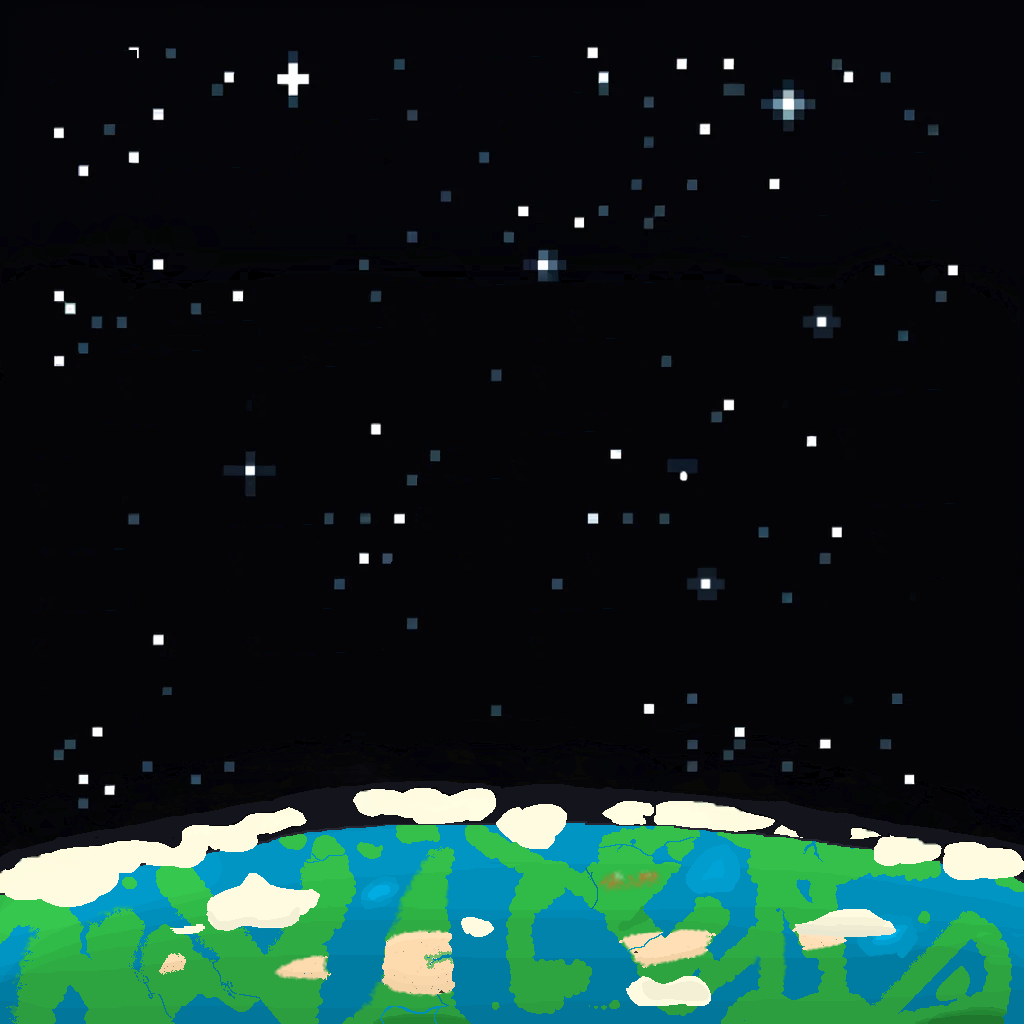
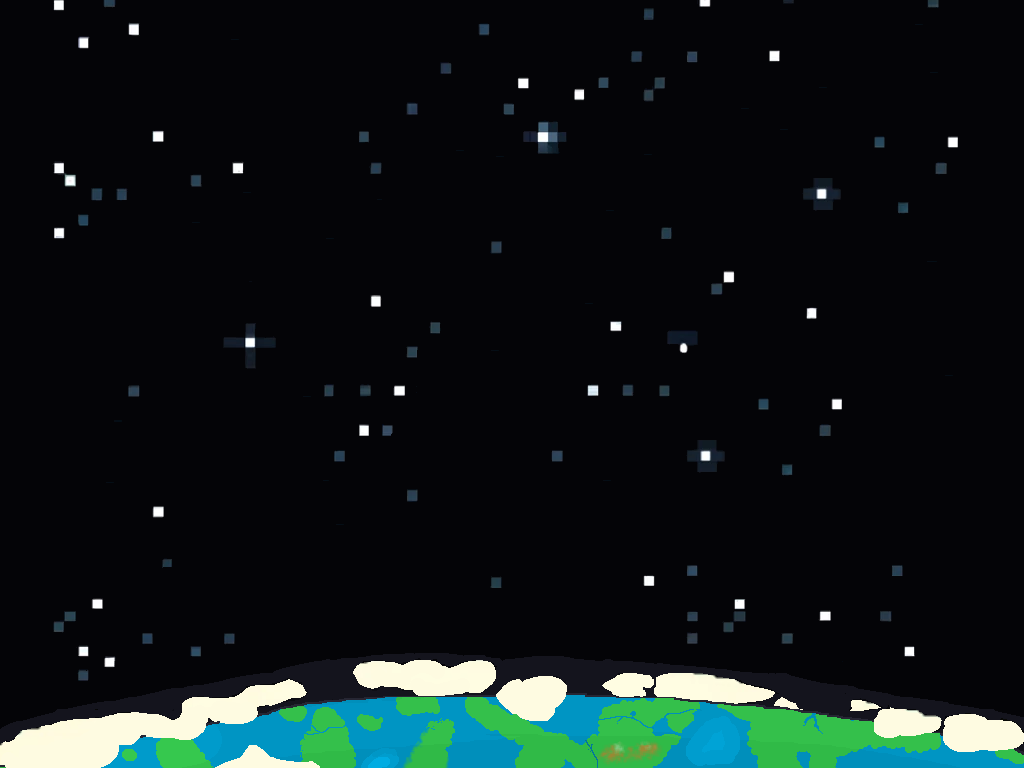
Char scrolling, smooth transitions, smoothed out some backgrounds

diff --git a/src/utils/dialogue_manager.js b/src/utils/dialogue_manager.js
@@ -28,7 +28,7 @@ class DialogueManager extends Phaser.GameObjects.Container {
 
     delay_timer = 0.5;
 
-    constructor(scene, x = 320, y = 40) {
+    constructor(scene, x = 310, y = 30) {
         super(scene, x, y);
         scene.add.existing(this);
         scene.events.on('update', this.update, this);
@@ -98,29 +98,40 @@ class DialogueManager extends Phaser.GameObjects.Container {
     }
 
     loadNextLine() {
-        this.line = this.lines[this.line_index];
-        this.char_index = 0; // Prepare to show new line
-        this.text.setText(this.line); // Display the entire line immediately
+        if (this.line_index < this.lines.length) {
+            this.line = this.lines[this.line_index];
+            this.char_index = 0;
+            this.isLineComplete = false;
+            this.text.setText("");
+            this.typeNextChar();
+        } else {
+            // Dialogue is complete
+            this.emitter.emit('dialogue_complete');
+            this.deactivateDialogue();
+        }
+    }
+
+    typeNextChar() {
+        if (this.char_index < this.line.length) {
+            this.text.text += this.line.charAt(this.char_index);
+            this.char_index++;
+            this.scene.time.delayedCall(DialogueManager.text_delay, this.typeNextChar, [], this);
+        } else {
+            this.isLineComplete = true; // The line is now fully displayed.
+        }
     }
 
     advanceDialogue() {
-        if (!this.is_active) return;
-        console.error(`Advance Dialogue call`);
-
-        // Advance character index or line index based on current state
-        if (this.char_index < this.line.length - 1) {
-            // If not at the end of the current line, immediately display the full line
-            this.char_index = this.line.length - 1;
-            this.text.setText(this.line);
-        } else {
-            // If at the end, move to the next line
-            if (this.line_index < this.lines.length - 1) {
+        if (this.is_active) {
+            if (!this.isLineComplete) {
+                // If the line is not fully displayed, immediately display it all
+                this.char_index = this.line.length;
+                this.text.setText(this.line);
+                this.isLineComplete = true;
+            } else {
+                // If the line is complete, move to the next one
                 this.line_index++;
                 this.loadNextLine();
-            } else {
-                // If no more lines, complete the dialogue
-                this.emitter.emit('dialogue_complete');
-                this.deactivateDialogue();
             }
         }
     }

diff --git a/src/scenes/Dialogue.js b/src/scenes/Dialogue.js
@@ -16,6 +16,7 @@ class Dialogue extends Phaser.Scene {
         this.background = this.add.image(0, 0, 'Dialogue').setOrigin(0, 0);
         this.background.setDisplaySize(this.cameras.main.width, this.cameras.main.height); // Adjust the size to fit the screen
         this.background.setDepth(-1);
+        this.cameras.main.fadeIn(1000, 0, 0, 0);
 
         this.keys = InitKeyDefs(this);
         this.dialogue_mgr = new DialogueManager(this);
@@ -34,12 +35,14 @@ class Dialogue extends Phaser.Scene {
     }
 
     transitionToGame() {
-        // Stop the Dialogue scene
-        this.scene.stop('Dialogue');
+        // Start fade-out effect over 1000 milliseconds
+        this.cameras.main.fadeOut(1000, 0, 0, 0);
 
-        // Transition to the Game scene or previous scene as needed
-        // Adjust this logic according to your game's needs
-        this.scene.start('Game');
+        // Set up a callback for when the fade-out is complete
+        this.cameras.main.once(Phaser.Cameras.Scene2D.Events.FADE_OUT_COMPLETE, (camera) => {
+            // Transition to the Game scene
+            this.scene.start('Game');
+        });
     }
 }
 

diff --git a/src/scenes/Preloader.js b/src/scenes/Preloader.js
@@ -44,15 +44,13 @@ export class Preloader extends Scene {
 
         this.load.image("BG4", "backgrounds/BG4.png");
 
-        this.load.image("BG5", "backgrounds/leveloneTilemap.png");
+        this.load.image("BG5", "backgrounds/BG5.png");
 
         this.load.image("BG6", "backgrounds/BG6.png");
 
         this.load.image("BG7", "backgrounds/BG7.png");
 
         this.load.image("Dialogue", "backgrounds/Dialouge.png");
-
-        this.load.image("upgradeTilemap", "backgrounds/leveloneTilemap.png");
 
         this.load.image("losescreen", "backgrounds/losescreen.png");
 

diff --git a/src/scenes/Store.js b/src/scenes/Store.js
@@ -222,7 +222,7 @@ export class Store extends Scene {
     create() {
         this.player_vars = this.registry.get('player_vars')
         //Background
-        this.animatedBg = this.add.tileSprite(400, 300, 1500, 1000, 'upgradeTilemap')
+        this.animatedBg = this.add.tileSprite(400, 300, 1500, 1000, 'BG5')
             .setOrigin(0.5, 0.5);
 
         const startY = 250;
